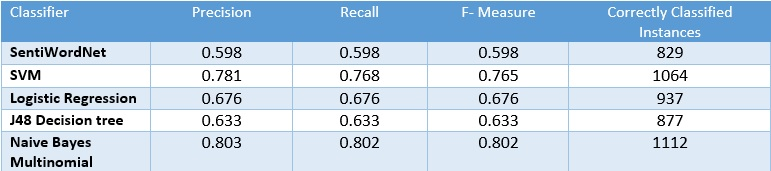
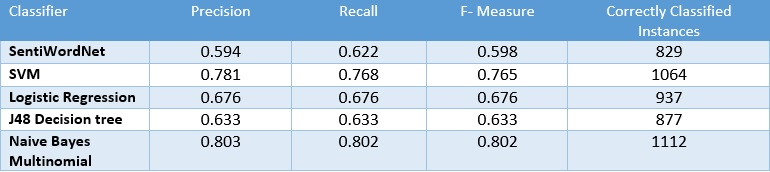
additions

diff --git a/src/rs/fon/is/movieClassification/classification/swn/TrainerSWN.java b/src/rs/fon/is/movieClassification/classification/swn/TrainerSWN.java
@@ -6,13 +6,14 @@ import java.io.FileWriter;
 import java.io.IOException;
 
 public class TrainerSWN {
-private static int TN=0;
-private static int TP=0;
-private static int FN=0;
-private static int FP=0;
+private static double TN=0;
+private static double TP=0;
+private static double FN=0;
+private static double FP=0;
 	public static void main(String[] args) {
 		// TODO Auto-generated method stub
 		SentiWordNetDemo swd = new SentiWordNetDemo();
+	
 		File folder = new File("C:/Users/Divna/Desktop/tokens/neg");
 		File[] listOfFiles = folder.listFiles();
 
@@ -36,6 +37,8 @@ private static int FP=0;
 			else FN++;
 			}
 		}
+		
+		FP=295;FN=262;TP=432;TN=397;
 		System.out.println("false positive"+FP+" false negative "+FN+" true positive "+TP+" true negative "+TN);
 	double precisionP= TP/(TP+FP);
 	double precisionN= TN/(TN+FN);
@@ -44,7 +47,7 @@ private static int FP=0;
 	
 	double precisionAvg=(precisionP+precisionN)/2;
 	double recallAvg=(recallP+recallN)/2;
-		System.out.println("Precision "+TP/(TP+FP));
+	System.out.println("Precision "+TP/(TP+FP));
 	System.out.println("Recall "+TP/(TP+FN));
 	System.out.println("F measure "+(2*precisionAvg*recallAvg)/(precisionAvg+recallAvg));
 	

diff --git a/src/rs/fon/is/movieClassification/classification/swn/SentiWordNetDemo.java b/src/rs/fon/is/movieClassification/classification/swn/SentiWordNetDemo.java
@@ -508,11 +508,11 @@ public class SentiWordNetDemo {
 			classifier = new SentiWordNetDemo();
 			classifier.load(file);
 			
-		System.out.println(classifier.classifyAllPOSY());
-			System.out.println(classifier.classifyAllPOSN());
+	//	System.out.println(classifier.classifyAllPOSY());
+		//	System.out.println(classifier.classifyAllPOSN());
 		//	System.out.println(classifier.classifyAllPOSN2());
-			System.out.println(classifier.classifyADJY());
-			System.out.println(classifier.classifyADJN());	
+		//	System.out.println(classifier.classifyADJY());
+		//	System.out.println(classifier.classifyADJN());	
 			
 	/*	
 		return "===== Classification by all kinds of words ===== \n\n"+" Review is classified as : "+classifier.classifyAllPOSY()+ "\n\n"+
